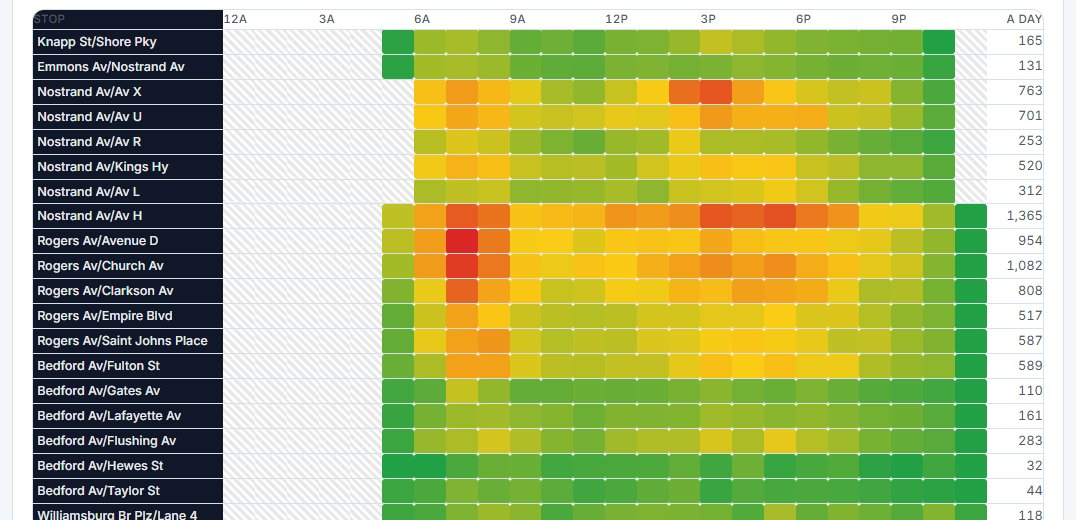
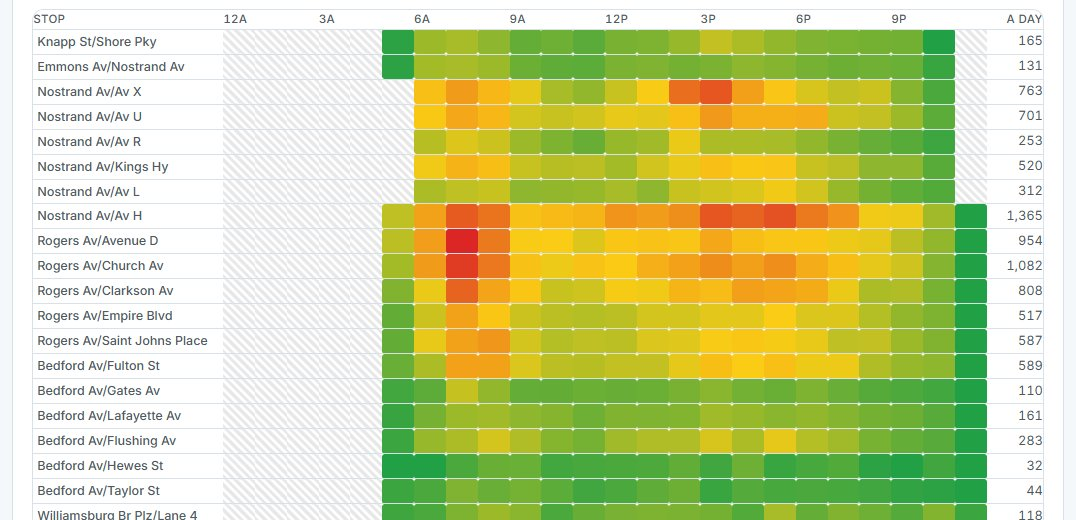
Grid: stop-name column uses the card colour and readable text in light and dark themes

Changed region(s): [[0.0307, 0.0, 0.2147, 1.0]]

diff --git a/wordpress-plugin/mta-ridership/assets/mta-ridership.css b/wordpress-plugin/mta-ridership/assets/mta-ridership.css
@@ -307,9 +307,9 @@ body.mta-v2 .mta-ridership .mta-subhead { font-weight: 600; font-size: 1.05rem; 
 .mta-ridership .mta-heat td[data-i] { height: 20px; border-radius: 3px; cursor: pointer; }
 .mta-ridership .mta-heat td.on { outline: 3px solid #fff; outline-offset: -1px; }
 .mta-ridership .mta-heat-none, .mta-ridership .mta-heat td.mta-heat-none { background: repeating-linear-gradient(45deg, rgba(127,127,127,.18) 0 3px, transparent 3px 6px); }
-.mta-ridership .mta-heat .mta-heat-stop { position: sticky; left: 0; z-index: 1; width: 190px; background: hsl(var(--background, 222 47% 11%)); text-align: left; }
+.mta-ridership .mta-heat .mta-heat-stop { position: sticky; left: 0; z-index: 1; width: 190px; background: var(--mta-card, hsl(var(--background, 222 47% 11%))); text-align: left; }
 .mta-ridership .mta-heat .mta-heat-stop button { display: block; width: 100%; padding: 2px 6px 2px 4px; font: inherit; color: inherit; text-align: left; white-space: nowrap; overflow: hidden; text-overflow: ellipsis; background: none; border: 0; cursor: pointer; }
-.mta-ridership .mta-heat tbody .mta-heat-stop button { color: hsl(var(--foreground, 0 0% 92%)); }
+.mta-ridership .mta-heat tbody .mta-heat-stop button { color: inherit; }
 .mta-ridership .mta-heat .mta-heat-stop button:hover { color: var(--mta-accent); }
 .mta-ridership .mta-heat .mta-heat-day { width: 56px; padding-left: 4px; text-align: right; font-variant-numeric: tabular-nums; }
 .mta-ridership .mta-heat-key { display: flex; flex-wrap: wrap; align-items: center; gap: .4em; margin-top: .6em; font-size: .8rem; color: var(--mta-muted); }

diff --git a/wordpress-plugin/mta-ridership/includes/moredata.php b/wordpress-plugin/mta-ridership/includes/moredata.php
@@ -1075,7 +1075,7 @@ function mta_more_rail_page($k)
         return '<p>Railroad data is loading. Check back in a few minutes.</p>';
     }
     $base = plugin_dir_url(dirname(__DIR__) . '/mta-ridership.php');
-    wp_enqueue_style('mta-ridership', $base . 'assets/mta-ridership.css', [], '1.16.12');
+    wp_enqueue_style('mta-ridership', $base . 'assets/mta-ridership.css', [], '1.18.1');
     [$short, $long] = $f['names'];
     $x = $f['x'];
     $o = '<header class="mta-hero"><h1>' . esc_html($short === 'LIRR' ? 'LIRR On-Time Performance, Delays & Ridership' : 'Metro-North On-Time Performance, Delays & Ridership') . '</h1>' .
@@ -1182,7 +1182,7 @@ function mta_more_pay_page()
         return '<p>Pay data is loading. Check back in a few minutes.</p>';
     }
     $base = plugin_dir_url(dirname(__DIR__) . '/mta-ridership.php');
-    wp_enqueue_style('mta-ridership', $base . 'assets/mta-ridership.css', [], '1.16.12');
+    wp_enqueue_style('mta-ridership', $base . 'assets/mta-ridership.css', [], '1.18.1');
     $a = $p['all'];
     $y = $p['year'];
     $o = '<header class="mta-hero"><h1>MTA Salaries and Overtime (' . esc_html($y) . ')</h1>' .
@@ -1259,7 +1259,7 @@ function mta_more_bridges_page()
         return '<p>Bridge and tunnel data is loading. Check back in a few minutes.</p>';
     }
     $base = plugin_dir_url(dirname(__DIR__) . '/mta-ridership.php');
-    wp_enqueue_style('mta-ridership', $base . 'assets/mta-ridership.css', [], '1.16.12');
+    wp_enqueue_style('mta-ridership', $base . 'assets/mta-ridership.css', [], '1.18.1');
     $tot = array_sum($b['facilities']);
     $days = max(1, $b['days']);
     $top = array_key_first($b['facilities']);

diff --git a/wordpress-plugin/mta-ridership/mta-ridership.php b/wordpress-plugin/mta-ridership/mta-ridership.php
@@ -2,7 +2,7 @@
 /**
  * Plugin Name: MTA Subway Ridership
  * Description: Daily-updated NYC subway ridership charts (top stations, monthly, hourly, day of week, seasons) from data.ny.gov. Use the shortcode [mta_ridership].
- * Version: 1.18.0
+ * Version: 1.18.1
  * Author: Mantie Reid
  * License: CC BY 4.0
  * License URI: https://creativecommons.org/licenses/by/4.0/
@@ -382,7 +382,7 @@ add_shortcode('mta_ridership', function ($atts) {
         mta_ridership_leaflet();
         $deps[] = 'leaflet';
     }
-    wp_enqueue_style('mta-ridership', $base . 'assets/mta-ridership.css', [], '1.16.12');
+    wp_enqueue_style('mta-ridership', $base . 'assets/mta-ridership.css', [], '1.18.1');
     mta_ridership_chartjs();
     wp_enqueue_script('mta-ridership', $base . 'assets/mta-ridership.js', $deps, '1.18.0', true);
     $data['trends'] = get_option(MTA_RIDERSHIP_TRENDS_OPTION) ?: null;

diff --git a/wordpress-plugin/mta-ridership/includes/lines.php b/wordpress-plugin/mta-ridership/includes/lines.php
@@ -370,7 +370,7 @@ add_shortcode('mta_lines', function () {
     $l = mta_lines_current();
     $base = plugin_dir_url(dirname(__DIR__) . '/mta-ridership.php');
     mta_ridership_chartjs();
-    wp_enqueue_style('mta-ridership', $base . 'assets/mta-ridership.css', [], '1.16.12');
+    wp_enqueue_style('mta-ridership', $base . 'assets/mta-ridership.css', [], '1.18.1');
     wp_enqueue_script('mta-lines', $base . 'assets/mta-lines.js', ['chartjs'], '1.15.0', true);
     $more = mta_lines_more_live() && isset($d['system']['per_day']); // waits for the first run of the new step
     $js = ['months' => $d['months'], 'system' => $d['system'], 'line' => $l, 'causes' => mta_lines_causes()];

diff --git a/wordpress-plugin/mta-ridership/includes/congestion.php b/wordpress-plugin/mta-ridership/includes/congestion.php
@@ -337,7 +337,7 @@ add_shortcode('mta_congestion', function () {
     $base = plugin_dir_url(dirname(__DIR__) . '/mta-ridership.php');
     mta_ridership_leaflet();
     mta_ridership_chartjs();
-    wp_enqueue_style('mta-ridership', $base . 'assets/mta-ridership.css', [], '1.16.12');
+    wp_enqueue_style('mta-ridership', $base . 'assets/mta-ridership.css', [], '1.18.1');
     wp_enqueue_script('mta-congestion', $base . 'assets/mta-congestion.js', ['chartjs', 'leaflet'], '1.15.0', true);
     wp_add_inline_script('mta-congestion', 'window.MTA_CONGESTION = ' . wp_json_encode($c + ['rates' => mta_congestion_rates()]) . ';', 'before');
 

diff --git a/wordpress-plugin/mta-ridership/includes/subwaymap.php b/wordpress-plugin/mta-ridership/includes/subwaymap.php
@@ -516,7 +516,7 @@ add_shortcode('mta_map', function () {
     }
     mta_map_enqueue([]);
     $base = plugin_dir_url(dirname(__DIR__) . '/mta-ridership.php');
-    wp_enqueue_style('mta-ridership', $base . 'assets/mta-ridership.css', [], '1.16.12');
+    wp_enqueue_style('mta-ridership', $base . 'assets/mta-ridership.css', [], '1.18.1');
     $sec = function ($title, $body, $note = '') {
         return '<section class="mta-section"><' . mta_ridership_h() . '>' . esc_html($title) . '</' . mta_ridership_h() . '>' . ($note ? '<p class="mta-note">' . $note . '</p>' : '') . $body . '</section>';
     };

diff --git a/wordpress-plugin/mta-ridership/includes/buses.php b/wordpress-plugin/mta-ridership/includes/buses.php
@@ -386,7 +386,7 @@ add_shortcode('mta_buses', function () {
     $r = mta_buses_current();
     $base = plugin_dir_url(dirname(__DIR__) . '/mta-ridership.php');
     mta_ridership_chartjs();
-    wp_enqueue_style('mta-ridership', $base . 'assets/mta-ridership.css', [], '1.16.12');
+    wp_enqueue_style('mta-ridership', $base . 'assets/mta-ridership.css', [], '1.18.1');
     $heat_map = ($r ? mta_busstops_live() : mta_busstops_all_live()) || mta_busspeeds_live() || mta_buslanes_live(); // the stop and speed maps are drawn with Leaflet
     if ($heat_map) {
         mta_ridership_leaflet();

diff --git a/wordpress-plugin/mta-ridership/includes/newdata.php b/wordpress-plugin/mta-ridership/includes/newdata.php
@@ -216,7 +216,7 @@ function mta_nd_month_points(array $series)
 function mta_nd_page($key, $title, $sub, array $tiles, $body, array $links, $updated, $extra = '')
 {
     $base = plugin_dir_url(dirname(__DIR__) . '/mta-ridership.php');
-    wp_enqueue_style('mta-ridership', $base . 'assets/mta-ridership.css', [], '1.16.12');
+    wp_enqueue_style('mta-ridership', $base . 'assets/mta-ridership.css', [], '1.18.1');
     $a = [];
     foreach ($links as $id => $name) {
         $a[] = '<a href="https://data.ny.gov/d/' . esc_attr($id) . '" rel="noopener">' . esc_html($name) . '</a>';

diff --git a/wordpress-plugin/mta-ridership/includes/stations.php b/wordpress-plugin/mta-ridership/includes/stations.php
@@ -298,7 +298,7 @@ add_shortcode('mta_stations', function () {
         return '<p>Station data is loading. Check back in a few minutes.</p>';
     }
     $base = plugin_dir_url(dirname(__DIR__) . '/mta-ridership.php');
-    wp_enqueue_style('mta-ridership', $base . 'assets/mta-ridership.css', [], '1.16.15');
+    wp_enqueue_style('mta-ridership', $base . 'assets/mta-ridership.css', [], '1.18.1');
     if (mta_ridership_look_v2()) {
         wp_enqueue_script('mta-tables', $base . 'assets/mta-tables.js', [], '1.15.0', true);
     }

diff --git a/wordpress-plugin/mta-ridership/includes/datastatus.php b/wordpress-plugin/mta-ridership/includes/datastatus.php
@@ -100,7 +100,7 @@ function mta_ridership_status_html($now = null)
 
 add_shortcode('mta_status', function () {
     $base = plugin_dir_url(dirname(__DIR__) . '/mta-ridership.php');
-    wp_enqueue_style('mta-ridership', $base . 'assets/mta-ridership.css', [], '1.16.12');
+    wp_enqueue_style('mta-ridership', $base . 'assets/mta-ridership.css', [], '1.18.1');
     if (!defined('DONOTCACHEPAGE')) {
         define('DONOTCACHEPAGE', true); // always live: don't let a page cache serve an old status
     }

diff --git a/wordpress-plugin/mta-ridership/includes/crime.php b/wordpress-plugin/mta-ridership/includes/crime.php
@@ -655,7 +655,7 @@ add_shortcode('mta_crime', function () {
         return '<p>Subway crime data is loading. Check back in a few minutes.</p>';
     }
     $base = plugin_dir_url(dirname(__DIR__) . '/mta-ridership.php');
-    wp_enqueue_style('mta-ridership', $base . 'assets/mta-ridership.css', [], '1.16.12');
+    wp_enqueue_style('mta-ridership', $base . 'assets/mta-ridership.css', [], '1.18.1');
     $d = $f['d'];
     $y = $f['y'];
     $b = $f['b'];

diff --git a/wordpress-plugin/mta-ridership/includes/transitmore.php b/wordpress-plugin/mta-ridership/includes/transitmore.php
@@ -664,7 +664,7 @@ function mta_tm_cbd_fetch()
 
 function mta_tm_css()
 {
-    wp_enqueue_style('mta-ridership', plugin_dir_url(dirname(__DIR__) . '/mta-ridership.php') . 'assets/mta-ridership.css', [], '1.16.12');
+    wp_enqueue_style('mta-ridership', plugin_dir_url(dirname(__DIR__) . '/mta-ridership.php') . 'assets/mta-ridership.css', [], '1.18.1');
 }
 
 function mta_tm_pct($a, $b, $dp = 1)
